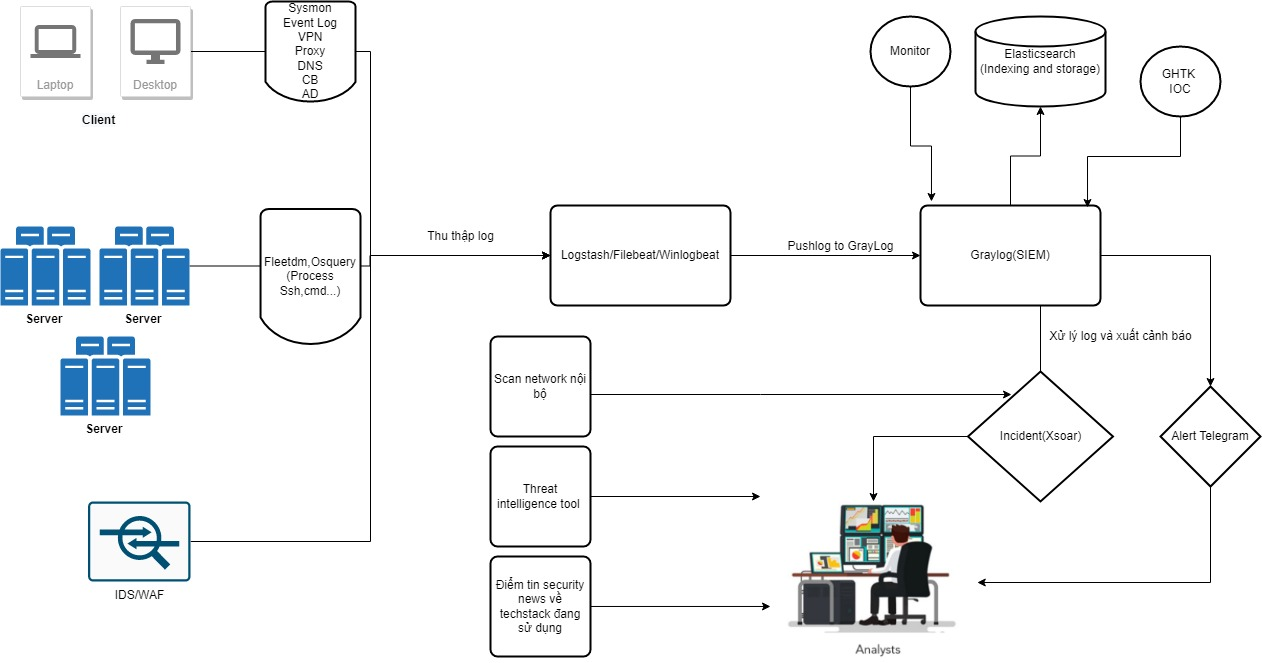
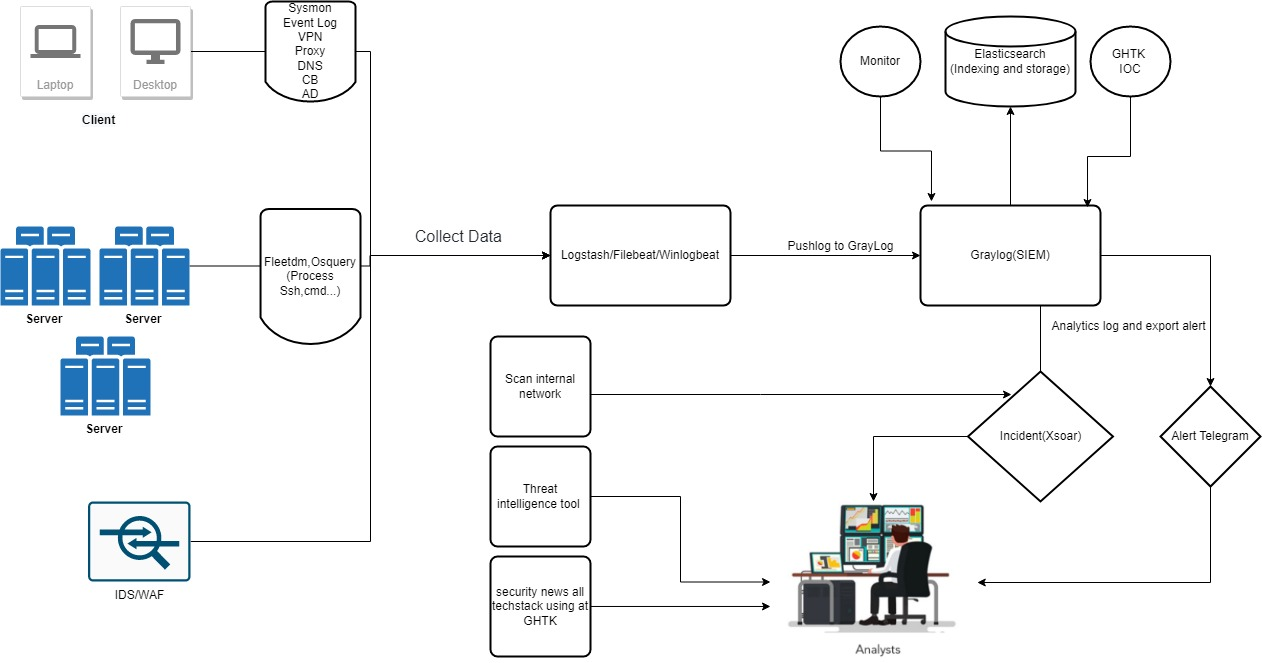
add file

diff --git a/README.md b/README.md
@@ -1,5 +1,3 @@
-### TURN ON DARK MODE<p align="left"> <img src="images/Mode-changer.gif" width="150" height="70"> </p>
-## PRESENTED BY <p align="center"> <img src="images/Logo-Transparent for Black BG.png" width="220" height="200"> </p>
 # 🔴SOC-GHTK
 This is a Project Designed for Security Analysts at Giao Hang Tiet Kiem JSC (GHTK)
 
@@ -29,11 +27,20 @@ This Projects serves below usecases:
  - Please Refer the installation guideline from Index.
  - Once you have your Elastic instance up and running, please refer to this video [HERE](https://youtu.be/fXLsY_eZoeE) for full walkthrough.
 
-# ☸Components(First Phase of Implementation):
-All of the components used in this projects are Open Source.
+# ☸Components:
+In GHTK 
  - **Elastic SIEM**: Open source SIEM platform powered by ElasticSearch, Logstash, Kibana
+ - **Cortex-Xsoar**: [Xsoar](https://github.com/demisto/content) is the industry-leading Security Orchestration, Automation & Response (SOAR) technology by Palo Alto Networks that will automate up to 95% of all response actions requiring human review and allow overloaded security teams to focus on the actions that really require their attention
+	- Official GitRepo of Graylog is **[HERE](https://www.paloaltonetworks.com/cortex/cortex-xsoar)**
+ - **Graylogs**: [Graylog](https://github.com/Graylog2/graylog2-server) is built to open standards for connectivity and interoperability to seamlessly collect, transfer, store, and analyze log data. Graylog is also SIEM-agnostic by design—our log streams can pass unaltered or enriched data to any application in your monitoring, alerting, and analysis stack. Your choice of scalable log management solution should let you do more with your security and performance data.
+    - Official GitRepo of Graylog is **[HERE](https://www.graylog.org/)**
+ - **fleetdm**: [fleetdm](https://github.com/fleetdm/fleet) State of the art host monitoring platform tailored for security experts. Leveraging Facebook's battle-tested osquery project, Fleetdm delivers continuous updates, features and fast answers to big questions.
+	- Official GitRepo of Fleetdm is **[HERE](https://fleetdm.com/)**
+ - **osquery**: [fleetdm](https://github.com/osquery/osquery) Easily ask questions about your Linux and macOS infrastructure using a SQL-like query language; the provided incident-response pack helps you detect and respond to breaches.
+
+	
+Another open source we recommend with similar functionality
  - **TheHive**: [TheHive](https://thehive-project.org/) is a scalable 3-in-1 open source and free Security Incident Response Platform designed to make life easier for SOCs, CSIRTs, CERTs and any information security practitioner dealing with security incidents that need to be investigated and acted upon swiftly.
-    - Official GitRepo of TheHive is **[HERE](https://github.com/TheHive-Project/TheHive)**
  - **Cortex**: Cortex, an open source and free software, has been created by TheHive Project for this very purpose. Observables, such as IP and email addresses, URLs, domain names, files or hashes, can be analyzed one by one or in bulk mode using a Web interface. Analysts can also automate these operations thanks to the Cortex REST API.
     - Official GitRepo of Cortex is **[HERE](https://github.com/TheHive-Project/Cortex)**
  - **MISP**: MISP is an open source software solution for collecting, storing, distributing and sharing cyber security indicators and threats about cyber security incidents analysis and malware analysis. MISP is designed by and for incident analysts, security and ICT professionals or malware reversers to support their day-to-day operations to share structured information efficiently.
@@ -54,7 +61,7 @@ All of the components used in this projects are Open Source.
  - **Elastic EDR**: [Elastic EDR](https://www.elastic.co/endpoint-security/) prevents ransomware and malware, detects advanced threats, and arms responders with vital context. It’s free and open, ready for every endpoint.
 
 # 🔽Installation-Requirements: 
-## ☁Hardware Requirements: 1500 VM
+## ☁Hardware Requirements: about 1500 VM
  - cortex Xsoar - Ubuntu20- 16Gb RAM, 8vcore, 500Gb Disk
  - Graylog SIEM- Ubuntu20- 16Gb RAM, 8vcore, 500Gb Disk
  - Logstash/filebeat/winlogbeat- ubuntu20- 16Gb RAM, 8vcore, 200GB Disk
@@ -66,6 +73,7 @@ All of the components used in this projects are Open Source.
 | 9200 | Your IP | Accessing ElasticSearch|
 | 5601 | Your IP | Accessing Kibana UI
 | 9000 | Your IP | Accessing Graylog UI|
+| 5044 | Your IP | Accessing Logstash|
 
 # 🤝Contributing
 We welcome your contributions. Please feel free to fork the code, play with it, make some patches and send us pull requests. 
